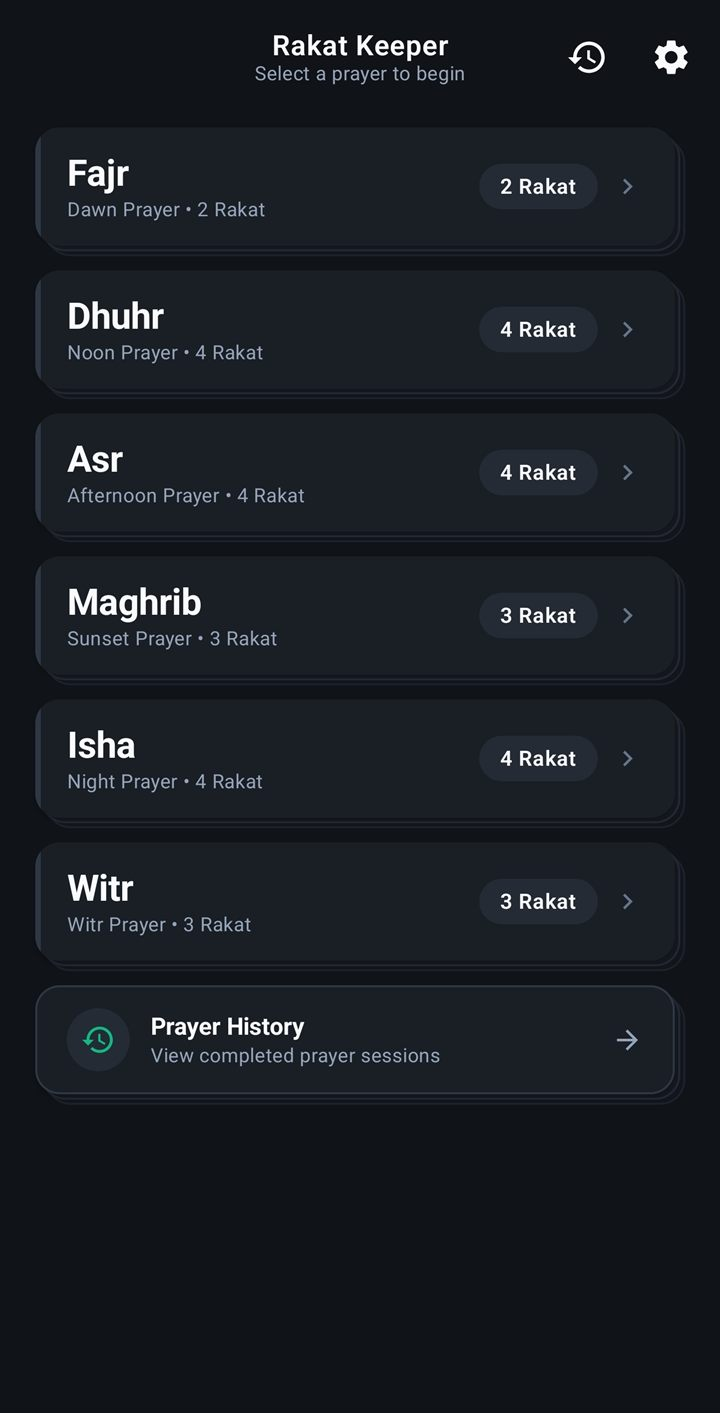
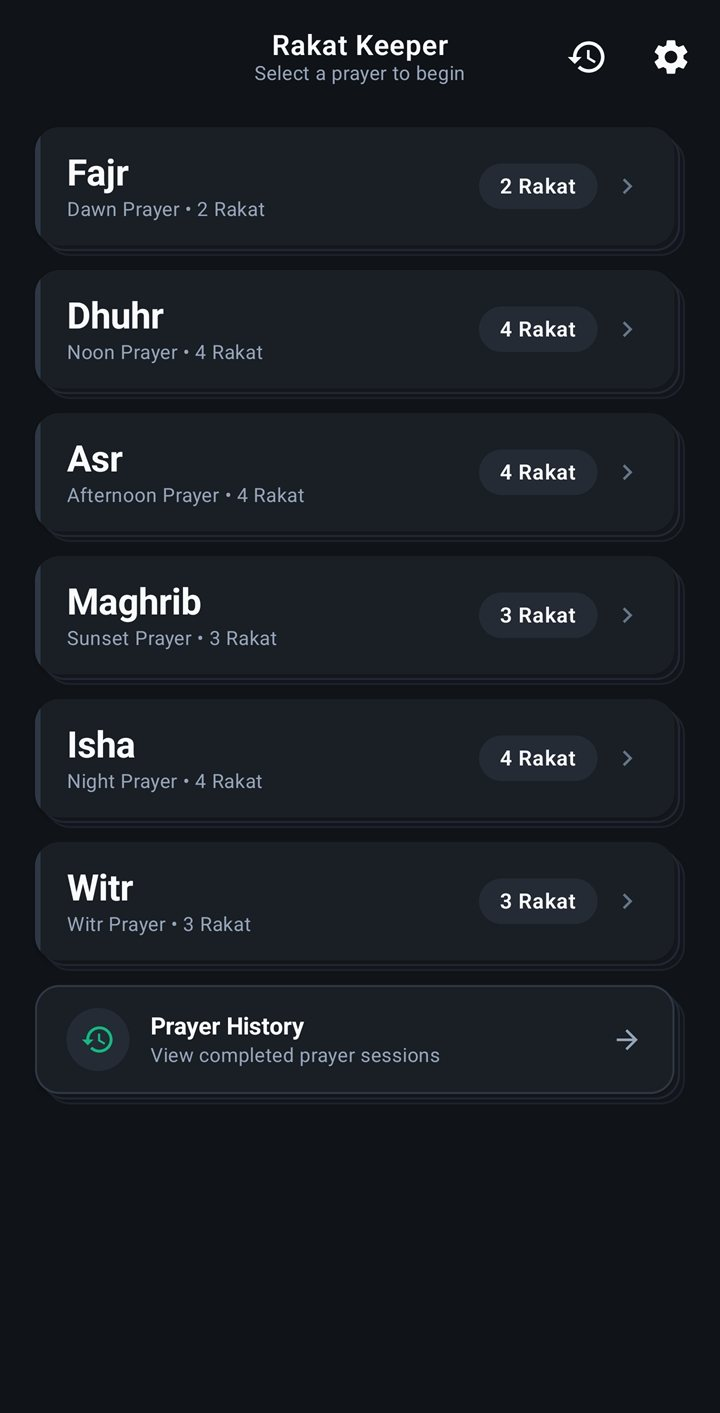
Home: show Home, Tracking and Completed screenshots, fit three phones on narrow screens

diff --git a/index.html b/index.html
@@ -62,10 +62,13 @@
           </div>
           <div class="phone-pair">
             <div class="phone">
-              <img src="/assets/rakat-keeper-home.jpg" width="720" height="1413" alt="Rakat Keeper home screen showing the five daily prayers and Witr" loading="lazy" decoding="async">
+              <img src="/assets/rakat-keeper-home.jpg" width="720" height="1413" alt="Rakat Keeper home screen with the five daily prayers and Witr listed as cards" loading="lazy" decoding="async">
             </div>
             <div class="phone">
-              <img src="/assets/rakat-keeper-history.jpg" width="720" height="1413" alt="Rakat Keeper prayer history screen with completed prayers grouped by date" loading="lazy" decoding="async">
+              <img src="/assets/rakat-keeper-tracking.jpg" width="720" height="1366" alt="Rakat Keeper hands-free tracking screen during an active prayer session" loading="lazy" decoding="async">
+            </div>
+            <div class="phone">
+              <img src="/assets/rakat-keeper-completed.jpg" width="720" height="1358" alt="Rakat Keeper completed screen shown after a finished prayer session" loading="lazy" decoding="async">
             </div>
           </div>
         </div>

diff --git a/styles.css b/styles.css
@@ -446,20 +446,24 @@ body.home .phone-pair {
 }
 
 body.home .phone {
-  border-radius: 28px;
-  border: 6px solid #232832;
+  border-radius: 20px;
+  border: 4px solid #232832;
   background-color: #0b0e11;
   overflow: hidden;
   box-shadow: 0 12px 32px rgba(0, 0, 0, 0.45), 0 2px 8px rgba(0, 0, 0, 0.3);
-  width: 44%;
+  flex: 1 1 0;
+  min-width: 0;
+  width: auto;
   max-width: 220px;
-  flex: 0 0 44%;
+  aspect-ratio: 720 / 1413;
 }
 
 body.home .phone img {
   display: block;
   width: 100%;
-  height: auto;
+  height: 100%;
+  object-fit: contain;
+  object-position: top;
 }
 
 @media (min-width: 800px) {
@@ -476,13 +480,11 @@ body.home .phone img {
   }
 
   body.home .phone-pair .phone {
+    border-radius: 28px;
+    border: 6px solid #232832;
     width: 100%;
     max-width: 200px;
     flex: 1 1 0;
-  }
-
-  body.home .phone-pair .phone:nth-child(2) {
-    margin-top: 2rem;
   }
 }
 
